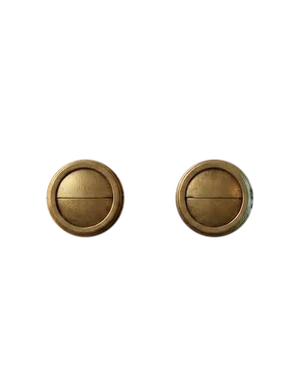
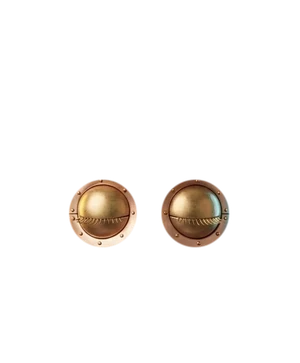
Narrator: her head (#141)
The voice is hers, so the head is too: Christian's new renders (rose-gold brass, art-deco
finger waves into curls, lashed eyelid shutters, a gem clip, a flower-bud bulb), cut like the
old one into the head with the open mouth's glow inside, the jaw and the shut eyelids. Her jaw
is three plates, so it's two layers: the chin plate drops with the voice, the side plates
half as far. Seated on the same collar; the torso, hands, hints and desk are unchanged.

Claude-Session: https://claude.ai/code/session_0195hiXiVZY5DpQ2CCYEr2vL

Changed region(s): [[0.51, 0.4242, 0.87, 0.697], [0.15, 0.4242, 0.48, 0.697]]

diff --git a/js/narrator.js b/js/narrator.js
@@ -2,8 +2,9 @@
    Its torso and hands are one video (assets/narrator/narrator.mp4, green screen keyed onto the bar's colour) in five
    8-second parts, every one starting and ending in the same rest pose: the fingers tapping, a storyteller's gesture
    and the same played backwards, drawing a shape in the air and that backwards. The robot moves only by jumping
-   within this one file (switching files blanked the frame for a moment). Its head is three cut-out layers on top:
-   the head with the mouth open inside, the jaw, and the shut eyelids.
+   within this one file (switching files blanked the frame for a moment). Her head is cut-out layers on top:
+   the head with the mouth open inside, the jaw (her chin plate, and the side plates that swing half as far), and
+   the shut eyelids.
    - It sits at its desk from the start, its head standing up out of the bar. Playing: the jaw opens with the loudness of the voice (measured
      from the episode with Web Audio) and the head nods a little. The hands make a gesture, all of it, or part of it
      and back again (it jumps to the same frame in the backwards copy), so it never looks like the same 8 seconds.
@@ -15,7 +16,7 @@
    - Now and then it blinks. With reduced motion it stays still, and only the mouth moves. */
 (function () {
   'use strict';
-  var A = '/assets/narrator/', V = '?v=5', DROP = 0.0747;   // the jaw's drop, as a share of the head's height
+  var A = '/assets/narrator/', V = '?v=6', DROP = 0.054;   // the chin plate's drop, as a share of the head's height (the side plates go half as far)
   var D = 193 / 24, IDLE = 0, GESTURES = [{ f: 1, r: 2 }, { f: 3, r: 4 }];   // the parts of narrator.mp4: forward and backwards copies
   // the hints, parts 5 to 7, with what the head does when (seconds into the part): look toward Play, wink, the bulb glows
   var HINTS = [
@@ -30,11 +31,11 @@
     if (!audio || bar.querySelector('.nb')) return;
     bar.classList.add('has-nb');
     var nb = document.createElement('div'); nb.className = 'nb'; nb.setAttribute('aria-hidden', 'true');
-    nb.innerHTML = '<div class="nb-rise"><div class="nb-head"><img class="nb-base" src="' + A + 'head-base.webp" alt=""><img class="nb-jaw" src="' + A + 'head-jaw.webp" alt="">' +
-      '<img class="nb-lids" src="' + A + 'head-lids.webp" alt=""><i class="nb-bulb"></i></div>' +
+    nb.innerHTML = '<div class="nb-rise"><div class="nb-head"><img class="nb-base" src="' + A + 'head-base.webp' + V + '" alt=""><img class="nb-jaw-s" src="' + A + 'head-jaw-sides.webp' + V + '" alt=""><img class="nb-jaw" src="' + A + 'head-jaw.webp' + V + '" alt="">' +
+      '<img class="nb-lids" src="' + A + 'head-lids.webp' + V + '" alt=""><i class="nb-bulb"></i></div>' +
       '<video class="nb-body" muted playsinline preload="none" poster="' + A + 'rest.jpg' + V + '"></video></div>';
     bar.insertBefore(nb, bar.firstChild);
-    var body = nb.querySelector('.nb-body'), head = nb.querySelector('.nb-head'), jaw = nb.querySelector('.nb-jaw');
+    var body = nb.querySelector('.nb-body'), head = nb.querySelector('.nb-head'), jaw = nb.querySelector('.nb-jaw'), jawS = nb.querySelector('.nb-jaw-s');
     var talking = false, an = null, buf = null, level = 0, raf = 0, plan = null, lastG = -1;
     var played = false, taps = 0, wait = 1, lastH = -1, hint = null;   // hints only until the first play, after a round or two of tapping
     body.src = A + 'narrator.mp4' + V;
@@ -106,8 +107,9 @@
       else if (talking) v = 0.35 + 0.35 * Math.sin(performance.now() / 90) * Math.sin(performance.now() / 233);   // no Web Audio: a gentle chatter
       level += (v - level) * (v > level ? 0.6 : 0.25);                       // opens quickly, closes a little slower
       jaw.style.transform = 'translateY(' + (level * DROP * 100).toFixed(2) + '%)';
+      jawS.style.transform = 'translateY(' + (level * DROP * 55).toFixed(2) + '%)';
       if (!still) head.style.transform = 'rotate(' + (Math.sin(performance.now() / 700) * 1.5 * level).toFixed(2) + 'deg) translateY(' + (-level * 2).toFixed(2) + '%)';
-      if (talking || level > 0.01) raf = requestAnimationFrame(tick); else { raf = 0; jaw.style.transform = ''; head.style.transform = ''; }
+      if (talking || level > 0.01) raf = requestAnimationFrame(tick); else { raf = 0; jaw.style.transform = ''; jawS.style.transform = ''; head.style.transform = ''; }
     }
     audio.addEventListener('play', function () {
       listen(); if (ctx && ctx.state === 'suspended') ctx.resume();

diff --git a/css/narrator.css b/css/narrator.css
@@ -12,17 +12,18 @@ section.listen.has-nb::before{content:"";position:absolute;left:0;right:0;bottom
   /* its right edge blends into the desk strip, and its top edge softens into the bar */
   -webkit-mask-image:linear-gradient(90deg,#000 95%,transparent),linear-gradient(180deg,transparent,#000 6%);-webkit-mask-composite:source-in;
   mask-image:linear-gradient(90deg,#000 95%,transparent),linear-gradient(180deg,transparent,#000 6%);mask-composite:intersect}
-/* the head: its jaw rests on the torso's collar (the collar's top is 9.8% down the torso), its width 42% of the robot's */
-.nb-head{position:absolute;left:29%;width:42%;bottom:81.5%;aspect-ratio:300/375;transform-origin:50% 92%;z-index:1;transition:rotate .5s cubic-bezier(.3,1.4,.5,1),translate .5s cubic-bezier(.3,1.4,.5,1);
+/* her head: her chin rests on the torso's collar (the collar's top is 9.8% down the torso); her curls make it
+   wide, 50% of the robot's width */
+.nb-head{position:absolute;left:25%;width:50%;bottom:79.8%;aspect-ratio:300/363;transform-origin:50% 92%;z-index:1;transition:rotate .5s cubic-bezier(.3,1.4,.5,1),translate .5s cubic-bezier(.3,1.4,.5,1);
   filter:drop-shadow(0 3px 5px rgba(0,0,0,.35))}
 .nb-head img{position:absolute;inset:0;width:100%;height:100%;display:block}
-.nb-jaw{will-change:transform}
+.nb-jaw,.nb-jaw-s{will-change:transform}
 .nb-lids{opacity:0}
 .nb.wink .nb-lids{opacity:1;clip-path:inset(0 0 0 50%)}   /* a wink: the eye nearer the Play button */
 .nb.blink .nb-lids{opacity:1;clip-path:none}
 /* the hints: the head turns toward the Play button, and the antenna bulb glows and flickers */
 .nb.look .nb-head{rotate:7deg;translate:5% 0}
-.nb-bulb{position:absolute;left:49.6%;top:4.8%;width:26%;aspect-ratio:1;translate:-50% -50%;border-radius:50%;pointer-events:none;opacity:0;transition:opacity .15s;
+.nb-bulb{position:absolute;left:49.6%;top:5.2%;width:26%;aspect-ratio:1;translate:-50% -50%;border-radius:50%;pointer-events:none;opacity:0;transition:opacity .15s;
   background:radial-gradient(circle,rgba(235,255,255,.95) 0,rgba(130,240,255,.6) 22%,rgba(80,220,255,0) 68%);mix-blend-mode:screen}
 .nb.glow .nb-bulb{opacity:1;animation:nb-flick .36s steps(2,jump-none) infinite}
 @keyframes nb-flick{50%{opacity:.45}}

diff --git a/index.html b/index.html
@@ -24,7 +24,7 @@
 <link rel="stylesheet" href="css/play-inline.css?v=1794600000">
 <link rel="stylesheet" href="css/logo.css?v=11">
 <link rel="stylesheet" href="css/lake.css?v=1">
-<link rel="stylesheet" href="css/narrator.css?v=6">
+<link rel="stylesheet" href="css/narrator.css?v=7">
 <script>/* The lake hidden last time (js/lake.js): start with the clean top, no flash of the scene. */try{if(localStorage.getItem("cg-lake")==="0")document.documentElement.classList.add("lake-off")}catch(e){}</script>
 <link rel="stylesheet" href="css/footer.css?v=1793360000">
 <script>/* Night links (?night, ?nightmode, ?darkmode) open with the page already dark: no white flash, no fade. */
@@ -256,7 +256,7 @@ document.documentElement.classList.add('night-page');})();</script>
 <script src="js/audio-rules.js?v=1" defer></script>
 <script src="js/play-inline.js?v=1794600000" defer></script>
 <script src="js/lake.js?v=2" defer></script>
-<script src="js/narrator.js?v=5" defer></script>
+<script src="js/narrator.js?v=6" defer></script>
 <!-- About: the name in the header opens the résumé (about/) as a modal. -->
 <script src="js/about.js?v=1793460000" defer></script>
 <!-- Footer: chipmunks, trail log (waits until the footer is near the screen). -->
